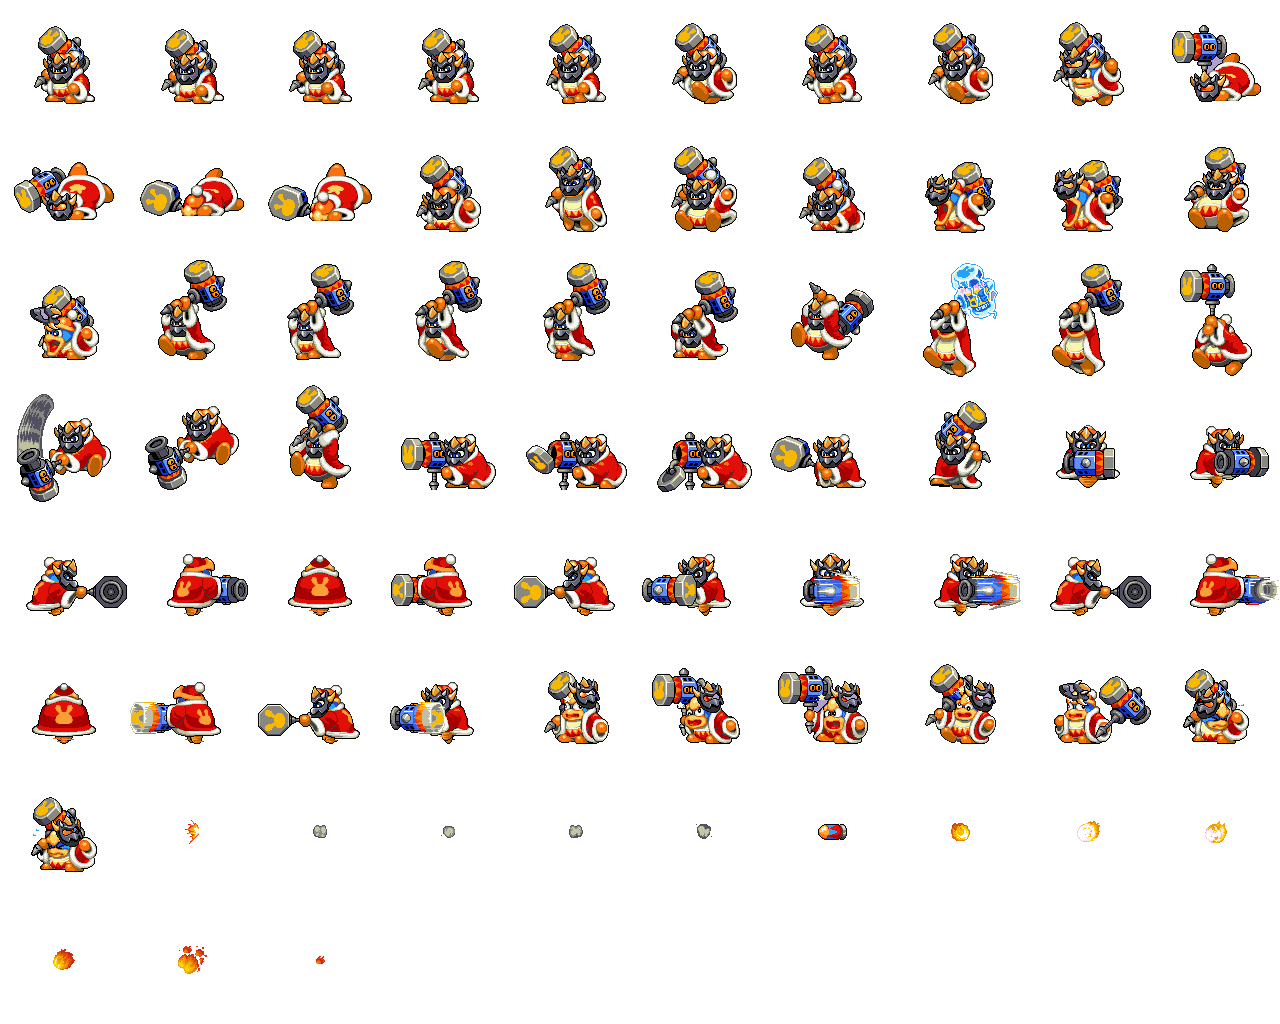
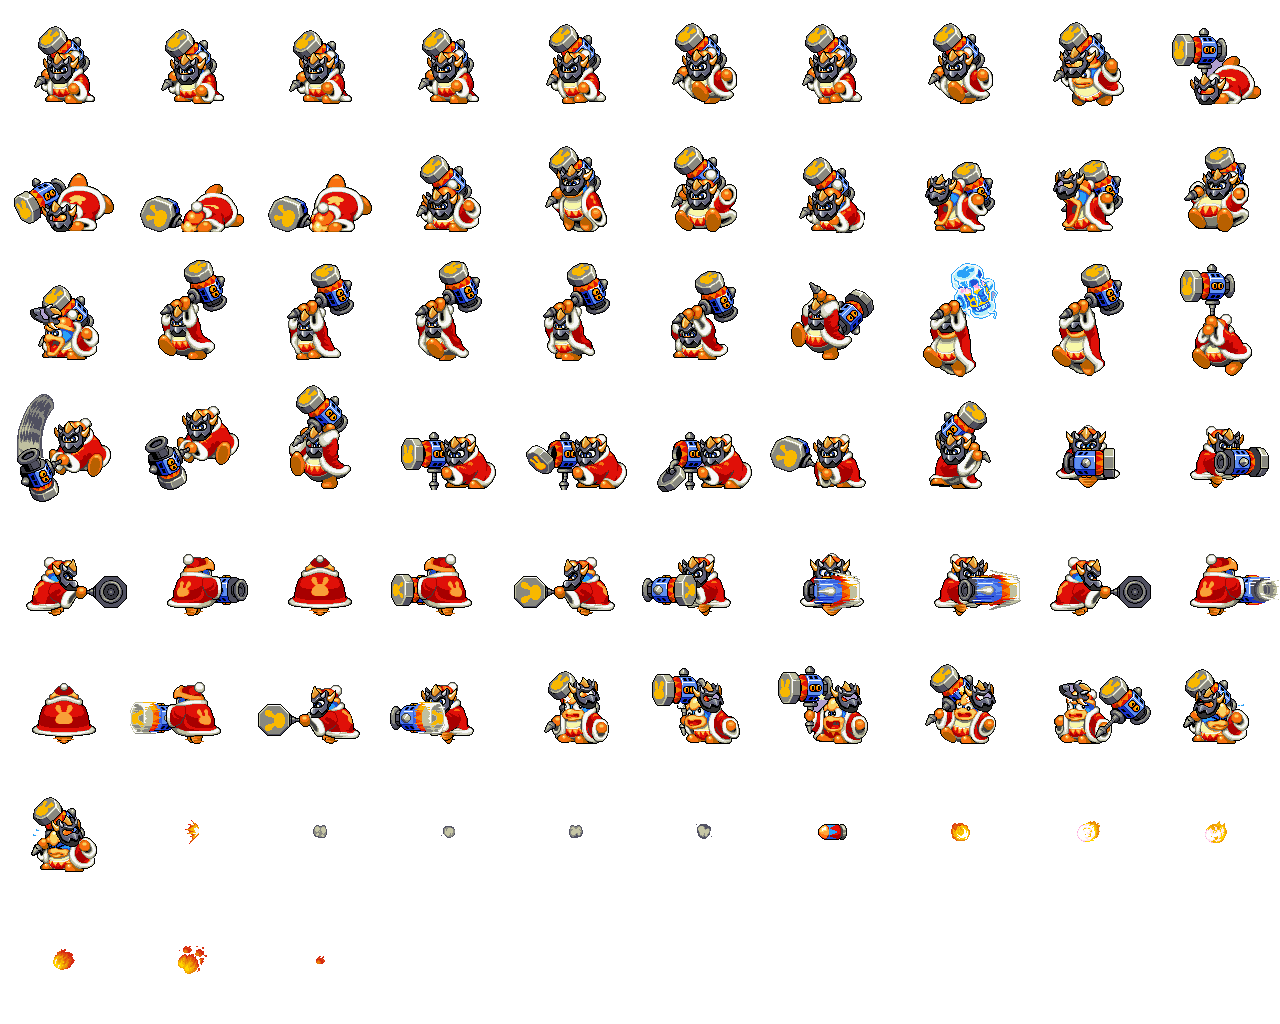
중간 커밋

Changed region(s): [[0.0, 0.1562, 0.3125, 0.25], [0.9062, 0.0312, 1.0, 0.125]]

diff --git a/Api_Project/Kirby_Game/MainBoss.cpp b/Api_Project/Kirby_Game/MainBoss.cpp
@@ -229,8 +229,8 @@ void AMainBoss::AniCreate()
 	MonsterRenderer->CreateAnimation("Att4_Right", "King_Right.png", { 16,17,17,17,18,18,18,20 }, 0.2f, false);
 	MonsterRenderer->CreateAnimation("Att4_Left", "King_Left.png", { 16,17,17,17,18,18,18,20}, 0.2f, false);
 
-	MonsterRenderer->CreateAnimation("die_Right", "King_Right.png", 8, 12, 0.3f, true);
-	MonsterRenderer->CreateAnimation("die_Left", "King_Left.png", 8, 12, 0.3f, true);
+	MonsterRenderer->CreateAnimation("die_Right", "King_Right.png", {8,9,10,12,11}, 0.3f, false);
+	MonsterRenderer->CreateAnimation("die_Left", "King_Left.png", { 8,9,10,12,11 }, 0.3f, false);
 }
 
 void AMainBoss::CalDir(float _DeltaTime)
